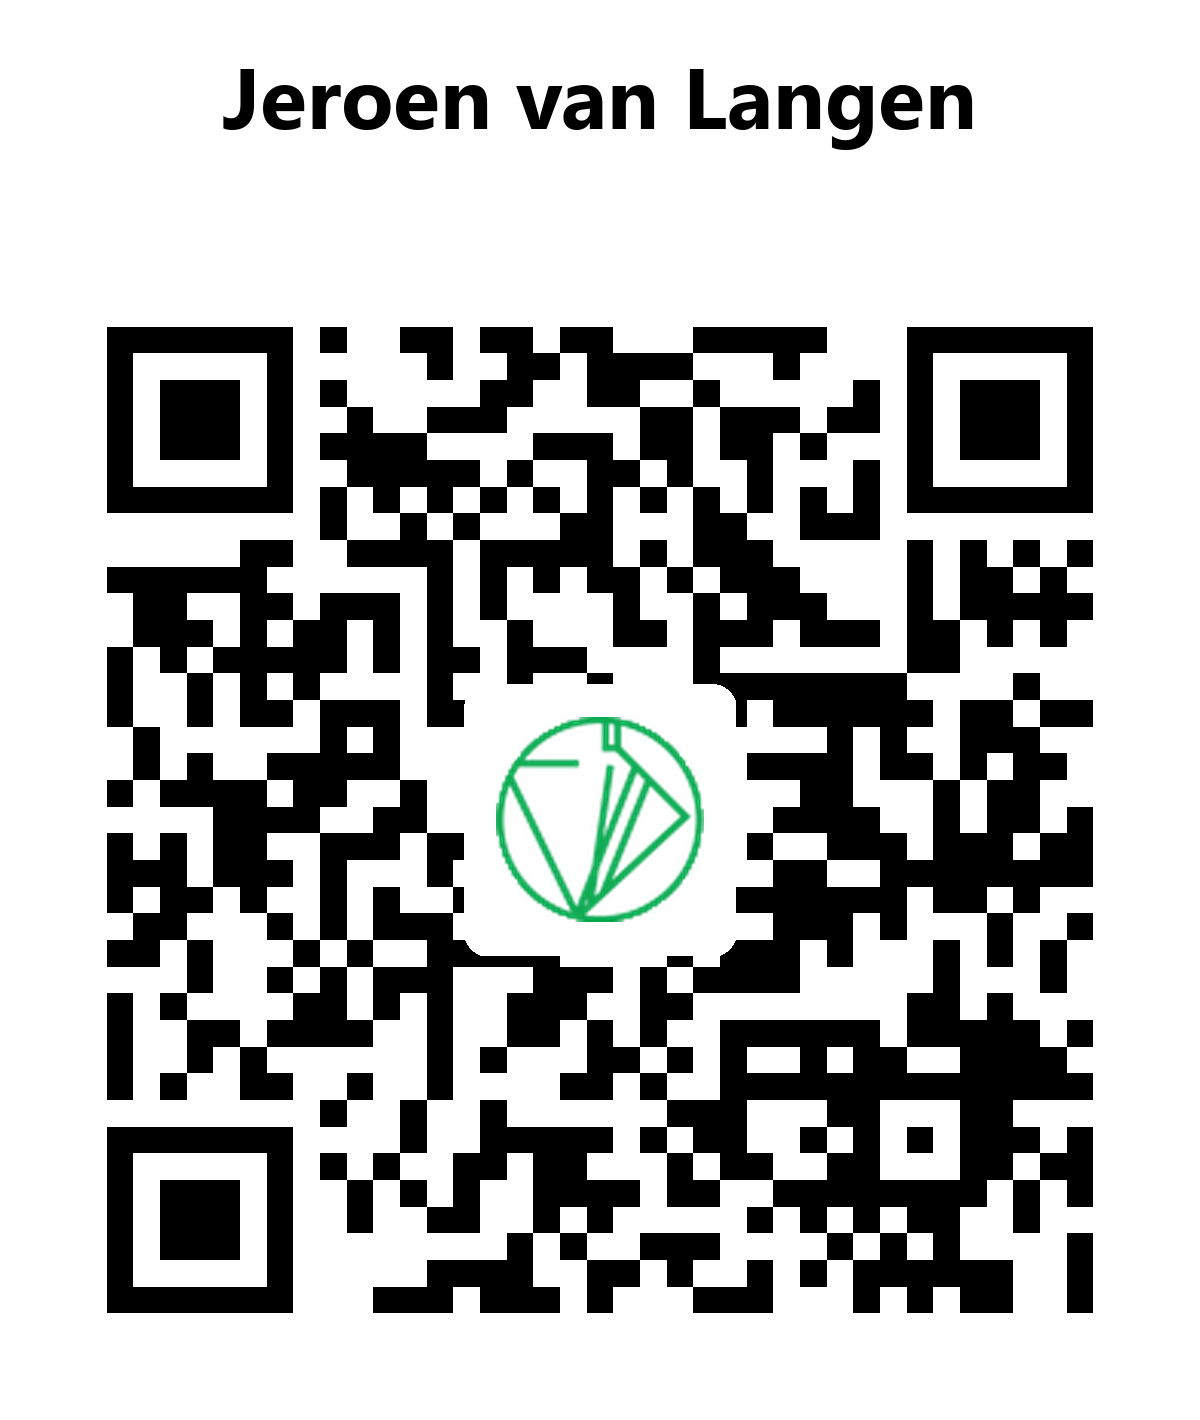
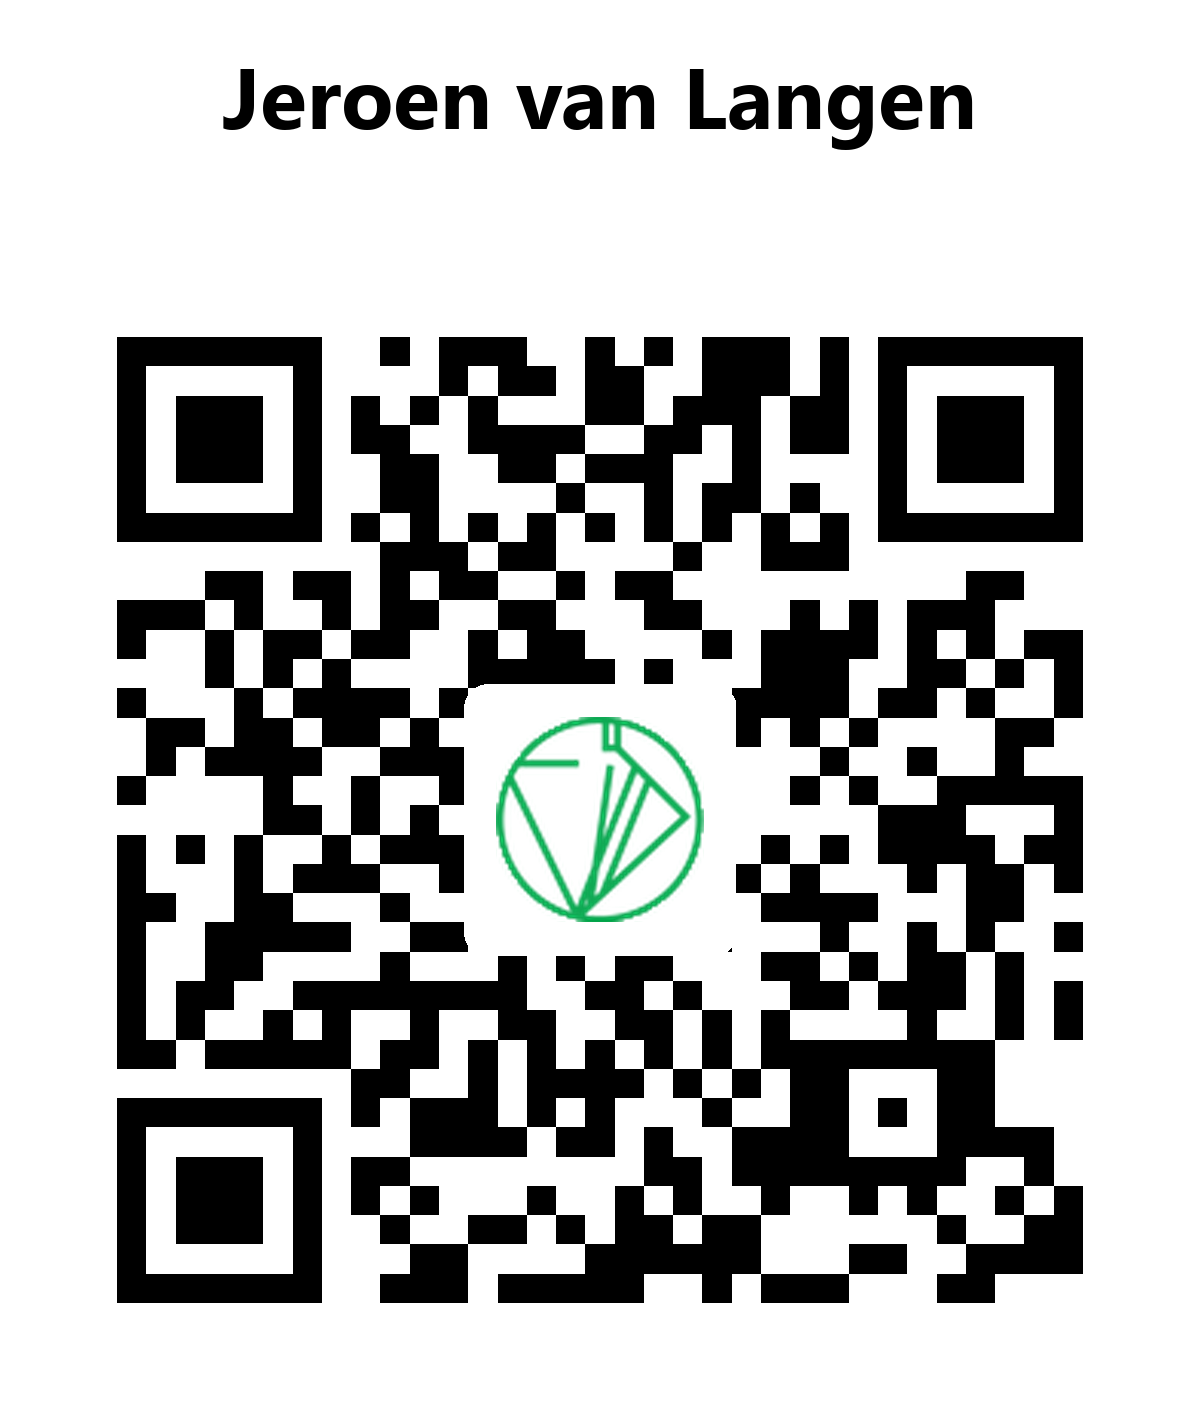
Update PWR contact QR and vCard

Changed region(s): [[0.0617, 0.2169, 0.925, 0.9296]]

diff --git a/docs/pwr/index.html b/docs/pwr/index.html
@@ -105,18 +105,17 @@
     <h1>Jeroen van Langen</h1>
     <h2>PWR Pack International B.V.</h2>
     <h3>Software Product Architect</h3>
-    <p class="actions"><a class="button" href="pwrpack.vcf">Contact opslaan</a></p>
+    <p class="actions"><a class="button" href="pwr.vcf">Contact opslaan</a></p>
 
     <section class="qr-grid" aria-label="QR-codes">
       <figure>
-        <img src="vcard-url.png" alt="QR-code naar vCard URL" width="300" height="300">
-        <figcaption>Scan to save my contact details<br/><i>(online contact card)</i></figcaption>
-        
+        <img src="vcard.png" alt="Offline QR-code met vCard-gegevens" width="300" height="355">
+        <figcaption>Scan to save my contact details<br/><i>(offline contact card)</i></figcaption>
       </figure>
 
       <figure>
-        <img src="vcard.png" alt="QR-code met vCard gegevens" width="300" height="300">
-                <figcaption>Scan to save my contact details<br/><i>(offline contact card)</i></figcaption>
+        <img src="vcard-url.png" alt="Online QR-code naar vCard URL" width="300" height="355">
+        <figcaption>Scan to save my contact details<br/><i>(online fallback)</i></figcaption>
       </figure>
     </section>
   </main>

diff --git a/docs/pwr/sw.js b/docs/pwr/sw.js
@@ -1,11 +1,11 @@
-const CACHE_NAME = "pwr-contact-v3";
+const CACHE_NAME = "pwr-contact-v5";
 
 const FILES = [
   "/pwr/",
   "/pwr/manifest.webmanifest",
   "/pwr/pwr-icon-192.png",
   "/pwr/pwr-icon-512.png",
-  "/pwr/pwrpack.vcf",
+  "/pwr/pwr.vcf",
   "/pwr/vcard-url.png",
   "/pwr/vcard.png"
 ];

diff --git a/generate_vcard_qr.py b/generate_vcard_qr.py
@@ -5,11 +5,11 @@ from PIL import Image, ImageDraw, ImageFont
 
 
 ROOT = Path(__file__).resolve().parent
-VCARD_PATH = ROOT / "docs" / "pwr" / "pwrpack.vcf"
+VCARD_PATH = ROOT / "docs" / "pwr" / "pwr.vcf"
 LOGO_PATH = ROOT / "docs" / "pwr" / "pwr-logo.png"
 VCARD_QR_PATH = ROOT / "docs" / "pwr" / "vcard.png"
 VCARD_URL_QR_PATH = ROOT / "docs" / "pwr" / "vcard-url.png"
-VCARD_URL = "https://vanlangen.org/pwr/pwrpack.vcf"
+VCARD_URL = "https://vanlangen.org/pwr/pwr.vcf"
 
 QR_SIZE = 1200
 LABEL_HEIGHT = 220
